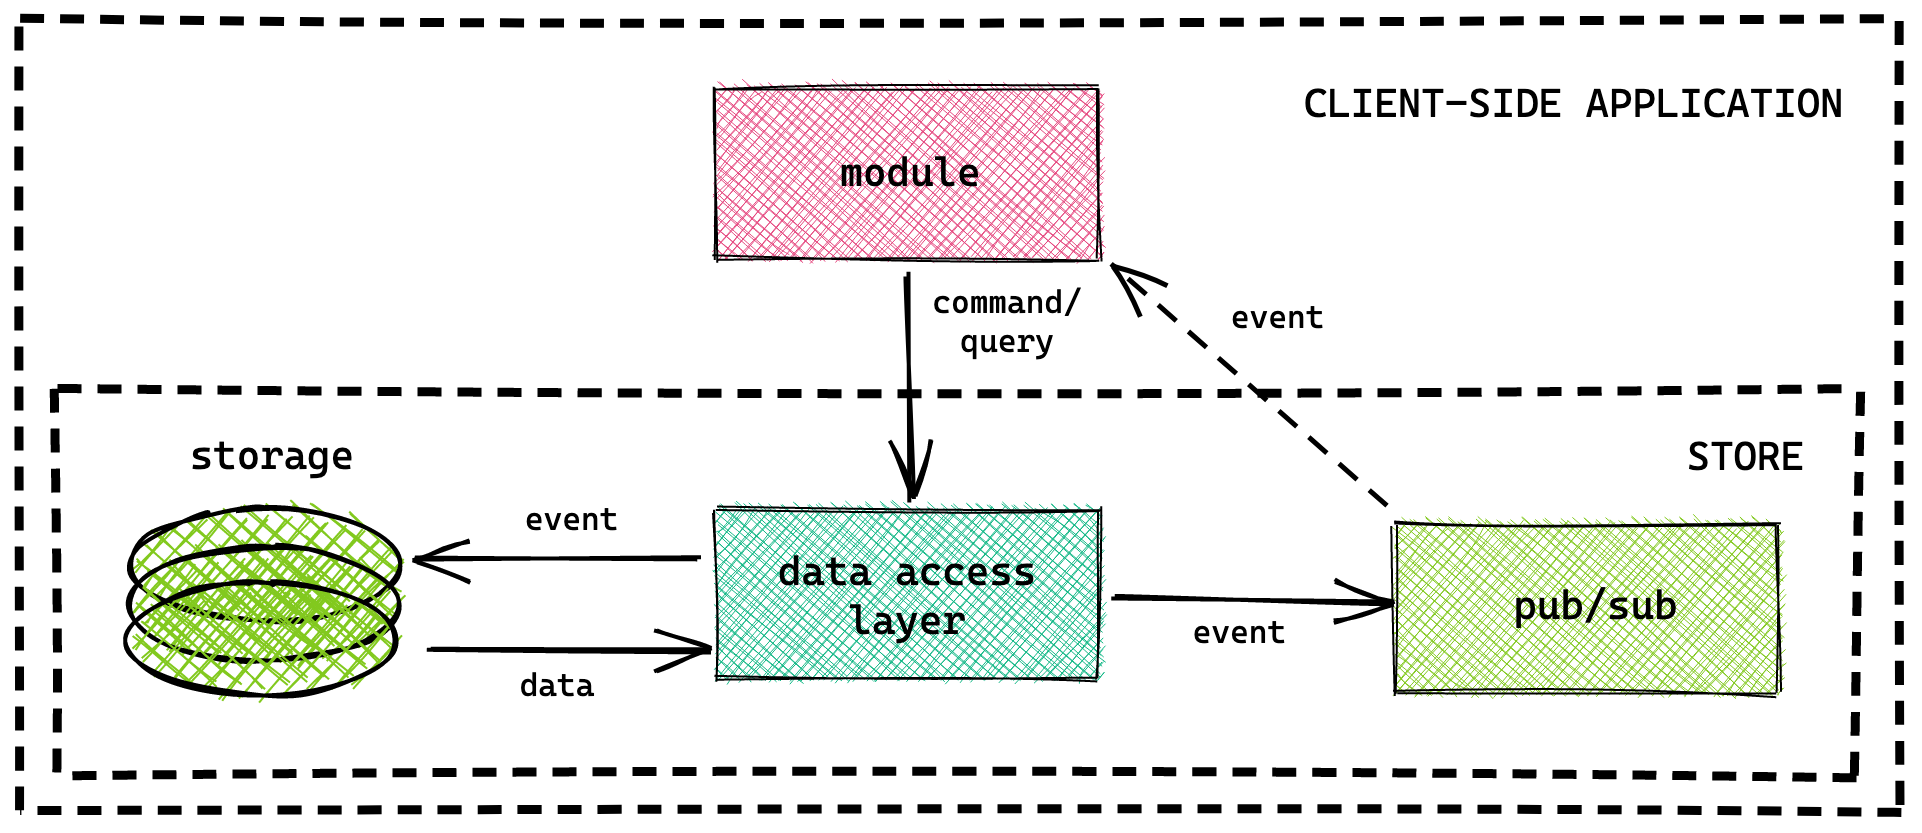
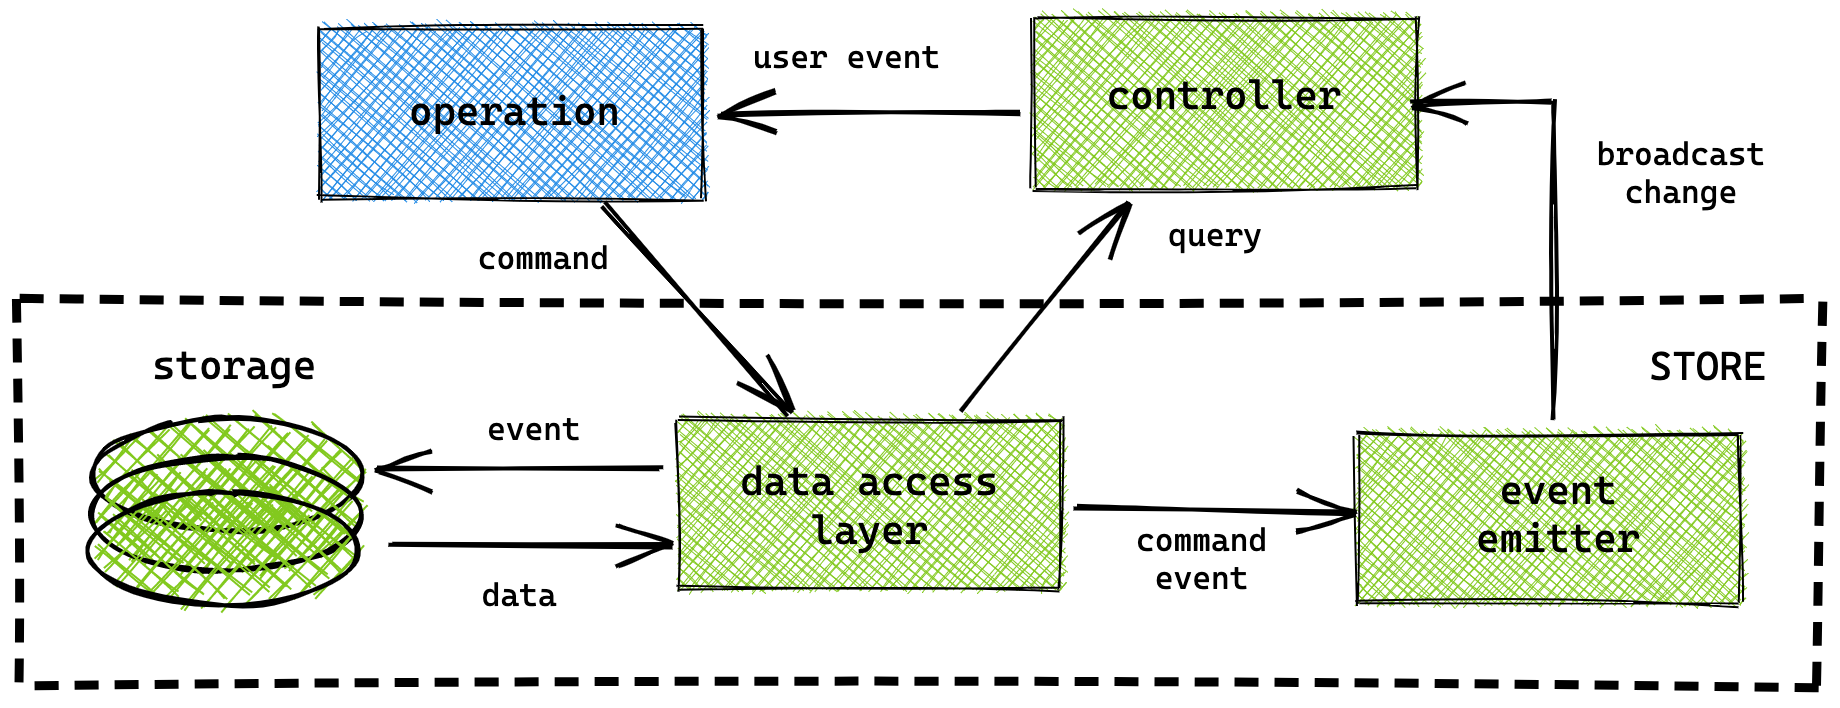
updated entire reference architecture

diff --git a/README.md b/README.md
@@ -1,94 +1,85 @@
-# Front-end reference architecture
+# Client-side software design
 
-**Version 3.0.0** | **Author**: Kevin Pennekamp | front-end architect | [vycke.dev](https://vycke.dev) | <hello@vycke.dev>
+**2021 version** | **Author**: Kevin Pennekamp | front-end architect | [kevtiq.dev](https://kevtiq.dev) | <hello@kevtiq.dev>
 
-> "A good architecture enables agility" - Simon Brown, author of the C4 model
+This document describes the concepts and guidelines around client-side software design for digital enterprise applications. It shows how what is important to focus on, and how to apply structure. The goals of this document can be deduced to three goals. 
 
-This document describes a reactive reference architecture for digital enterprise client-side applications. It offers framework-agnostic best practices focused on the architecture behind the user interface.
+- **Enable agility**. A good architecture helps you to embrace change from different angles (technology, business, requirements, etc.). This helps you further minimize the cost of change. 
+- **Minimize cost of change**. Create testable and maintainable code, and look ahead of what might come. A good architecture and a set of guidelines allows for easier technology decisions and change it along the way. 
+- **Shared understanding**. Modern client-side libraries do not offer guidelines on structure and organizing code. This requires a shared language of architectural patterns.
 
-> **DEFINITION**: a reference architecture is an abstract blueprint of a structure for a specific class of information systems. It describes a set of guidelines on how to use the structural description in designing a concrete architecture.
+## Context & concepts
 
-## System context
-
-Client-side applications for digital enterprises are a single part of a bigger system. The systems we create comprise many internal and external/public services. Client-side applications connect to internal services through an API gateway. Sometimes, the client-side application also connects to an external service (e.g. a public data set). The [C4 model](https://c4model.com) container diagram (or level 2) is displayed below.
+Client-side applications are almost always part of a bigger system. The systems we create comprise many internal and external/public services. Client-side applications connect to internal services through the published APIs of the system. The [C4 model](https://c4model.com) container diagram (or level 2) is displayed below.
 
 ![](./images/c4-container.png)
 
-Modern solutions are library-based. They do not offer guidelines in how to structure and organize code to achieve _maintainability_, _flexibility_, and _testability_. This requires a shared language of architectural patterns. This document describes common patterns from software development applied to the client-side.
+Due to this place in a system, the concepts of a client-side application differ from the other containers in the system. The client-side application focuses on: 
 
-## Core principles
+- Communicating with external APIs.
+- Invoking and handling user events.
+- Interact with the OS (e.g. browser, iOS).
+- State management inside the application. 
+- Styling and accessibility.
 
-There are four principles influencing the decisions of this reference architecture.
+## Design principles
+
+A reference architecture is an abstract blueprint for a specific class of information systems. It describes a set of guidelines on how to design an application architecture. It shows core components, the interrelationships among them, and their essential attributes. 
+
+This reference architecture is a guideline for designing client-side application. It offers framework-agnostic principles focused on the architecture behind the user interface. It applies to single-page, server-side rendered, and component-based mobile applications (e.g. React Native). 
 
 ### Separation of concerns
+The first and most important principle is *separation of concerns*. It is the activity of enforcing logical boundaries between each of the architectural concerns. It allows for *maintainable* and *testable* code. 
 
-Separation of concerns is the activity of enforcing logical boundaries between each of the architectural concerns. A common method is the [clean architecture](https://blog.cleancoder.com/uncle-bob/2012/08/13/the-clean-architecture.html), displayed on the left. The two centered layers are always solutions. specific, while the outer layers could be sharable between solutions.
+#### Clean architecture
+A common method is the [clean architecture](https://blog.cleancoder.com/uncle-bob/2012/08/13/the-clean-architecture.html). The UI is in the original outer layer of the clean architecture. But, modern client-side frameworks make client-side applications more like traditional applications. Thus several layers can apply to client-side applications, as displayed below. 
 
 ![](./images/layers.png)
 
-Although clean architecture does not fit client-side applications, it gives insights into different layers that exist in client-side applications. These layers are displayed on the right. Each feature on a client-side application is a vertical slice through these layers.
+The three depicted layers show us the first level of separation. The separation helps us to understand how users interact with our code. But it also shows how our code interacts with the browser and external APIs. 
 
-### Command query separation (CQS)
+- **Infrastructure**: all interface-related code (UI, browser APIs, and external APIs). The implementation is often abstracted into adapters (e.g. `Axios` or `React`).
+- **Application**: describes all (user) interactions (e.g. clicking a submit button). Often called features, use-cases, actions, or operations. 
+- **Domain**: holds all business domain-related logic required for the UI (e.g. validation). Most domain logic lives elsewhere in the system.
 
-On top of the separation of concerns through a layered architecture, the **[Command Query Separation (CQS)](https://en.wikipedia.org/wiki/Command%E2%80%93query_separation)** pattern is used. This pattern describes how to read and write operations, both internal and external, should be split. _Queries_ don't impact state, and return data, while _commands_ change the state, but do not return data.
+#### Model-View-Presenter (MVP)
+This first layer of separation aids in creating a shared understanding of a client-side application. But,  it is a too high level for implementation. When dissecting a complete feature as a vertical slice, we see touching all layers of the clean architecture. Structuring this results in a decomposed version of the [Model-View-Presenter](https://en.wikipedia.org/wiki/Model–view–presenter) pattern. Note that the displayed colors match those of our clean architecture visualization.
 
-By splitting commands and queries, a client-side application can be made _reactive_. One component can subscribe to an application store through a query. When another component updates the store through a command, the first component is updated.
+![](./images/mvp.png)
 
-![](./images/reactivity.png)
+Each feature is a vertical slice through this model. The view layer is responsible to show data and generating user events. Domain logic determines what to show, or what user event to invoke. The presenter/controller links the view layer with the model layer. It can use information from the URL in its role, like `userId` (*route state*).
 
-Using CQS, cache invalidation according the `stale-while-revalidate` pattern becomes easier. When executing a query (done by operations) the cache is first checked. If the record exists and is flagged as 'valid', no request is sent out. The moment a command is executed on a record, it is set to 'invalid'. On the next query, the value from the cache is returned first, but a request is sent out. The cache gets updated with the response value, which broadcasts the changes to the UI. This allows for _reactivity_, _observability_, and the [_optimistic UI_](https://www.smashingmagazine.com/2016/11/true-lies-of-optimistic-user-interfaces/) pattern.
+> A page is a good example of a presenter/controller, as many components use the same data and operations. But, in complex settings components can have a controller integrated.
 
-### Domain-driven development
+User events go through a chain of operations in the model layer. Operations translate the user event into fetch requests or state mutations. Operations represent the *application* layer from the clean architecture. The chain of operations can include general-purpose operations (e.g. logging and authorization).
 
-Features are vertical slices in the layers defined in the "separation of concerns" section. Features are decoupled from other features. But, in large-scale client-side applications, features are often coupled based on domain. By applying [domain-driven development (DDD)](https://martinfowler.com/bliki/BoundedContext.html) we can group similar features in _modules_ like displayed in the below C4 component diagram (level 3). To ensure that users are presented with the correct modules, a _router_ is used.
+The gateway and store are adapters from the *infrastructure* layer. The gateway handles fetch requests and provides on the request status (*meta state*). The store handles persist data (either persists for a session, or between sessions). It holds a cached version of server data (*remote state*) and state required in the application (*global state*). Both are responsible to update the presenter on state change. 
+
+> **TESTABILITY**: the described separation allows for more testable code, but also understanding better what to test. The inner layers of the clean architecture are more stable and less likely to change in the long-term. These are the parts you should test. The outer layer is subjected to change and testing is less important there. However, abstracting the infrastructure in adapters allows for another testable layer. This effectively means that everything in the 'model layer' of the MVP model should be tested. 
+
+### Command-query separation (CQS)
+The operations can be further separated using [command-query separation (CQS)](https://en.wikipedia.org/wiki/Command%E2%80%93query_separation). This pattern describes how to split read and write operations. _Queries_ only return data and don't impact state. _Commands_ change the state, but do not return data.
+
+By splitting commands and queries, a client-side application becomes _reactive_. One component can subscribe to an application store through a query. Another component updates the store through a command, invoking change in the first component.
+
+![](./images/stale-while-revalidate.png)
+
+This pattern allows for the `stale-while-revalidate` caching strategy. When executing a query, the store serves a cached version first. If the cached version is 'invalid', the operation sends a new request. Upon receiving the response, the store updates and broadcasts the changes. Commands touching records in the store, invalidate those records (e.g. [optimistic UI](https://www.smashingmagazine.com/2016/11/true-lies-of-optimistic-user-interfaces/)). 
+
+### Co-location
+Even when applying the first two principles, large client-side applications can become unmaintainable. [Co-location](https://kentcdodds.com/blog/colocation) describes that code and data should live close to where it is used. This allows for better developer experience, but above all, better maintainability of applications. The co-location principle is like the idea of [screaming architecture](https://blog.cleancoder.com/uncle-bob/2011/09/30/Screaming-Architecture.html). This describes that the general structure of your architecture should show the purpose of the application.
 
 ![](./images/c4-components.png)
 
-> **NOTE**: modules represent the top three layers defined in the separation of concerns. The _gateway_ and _store_ represent the other two layers and are discussed in a different section. Other elements can exist on this level (e.g. pub/sub, history stack, web-workers).
+By grouping features into descriptive modules, you can achieve a screaming architecture. The gateway and the store of the visualized architecture are generic. Thus a  module contains UI components, UI logic, controllers, and operations. 
 
-By dividing features into modules, the client-side application becomes more maintainable, scalable, and shareable. Modules can be extracted from one solution and used in another (e.g. as a micro front-end or NPM package). Modules can depend on each other. There are two types of dependencies:
+## Infrastructure layer patterns
+The infrastructure layer in the clean architecture is the layer most subjected to change. In client-side applications it is dependent on the choice of technology. Various frameworks exist for the UI (e.g. React and Vue) and many more will come into play in coming years. On the other end, new API technologies like GraphQL are gaining in popularity. Because of this nature, adapters are used to stabilize the implementation.   
 
-- _Hard dependency (solid arrow)_: when module A depends on module B, module A can invoke commands impacting module B.
-- _Soft dependency (dotted arrow)_: when module A depends on module B, module A can use queries or UI components from module B.
+This document describes either how to implement a mature adapter, or conceptually look at elements from the infrastructure layer. 
 
-### Co-location
-
-[Co-location](https://kentcdodds.com/blog/colocation) describes that code and data should live close to where it is used. This allows for better developer experience, but above all, better maintainability of applications.
-
-## Module architecture
-
-To follow the core principles, the main idea of the module architecture follows the [Model-View-Presenter](https://en.wikipedia.org/wiki/Model%E2%80%93view%E2%80%93presenter) pattern. The general architecture is displayed below.
-
-![](./images/c4-elements.png)
-
-The _controller_ can take many forms. It can be a UI component (e.g. page) that combines state interaction and external calls with UI rendering. Or, it can be a controller with no UI that is used by many UI components to perform commands and queries. The last possibility is that the controller is integrated into a UI component.
-
-> **NOTE**: React Context can a controller-type presenter.
-
-Big modules consist of many pages. In that case, the module includes a module-level **router**, implemented on the highest level. This can be the controller or a wrapper. In the latter's case, it is common that each page has, or is, its controller.
-
-In the _operations_ (a.k.a. actions) is where decision are made. They link the controller, and so the UI, to our data stores and APIs. They go beyond commands and queries, as they implement more logic as well (e.g. validation logic).
-
-The _module store_ allows for atomic data storage, complying with the co-location principle. This allows modules to decouple from application elements and become more shareable.
-
-## Application and module store
-
-Large applications use the store for global state management, the application store. But, according to the [co-location] principle data should live close to where it is used. This means that modules can have a store of their own. The recommendation is that the store follows the patterns around [event sourcing](https://martinfowler.com/eaaDev/EventSourcing.html). This means that the store should be:
-
-- It stores data in a **centralized** and normalizes the data, i.e. nesting of relational data is not allowed.
-- It is the owner of the data shape and mutations to increase resilience, i.e. it is **event-driven** and **immutable**.
-
-![](./images/c4-store.png)
-
-To follow the principles of this architecture, it uses an **access layer**. This _element_ is an [_facade_](https://en.wikipedia.org/wiki/Facade_pattern) and decouples the state interface, allowing for better composability. Store events (e.g. via a `dispatch` function) can be defined and invoked on a module-level. The access layer handles these events and applies them to the **storage**. The access layer can be connected to many data storage.
-
-> **NOTE**: many front-end applications use global state management for all data. Many existing global state management packages like [Redux](https://redux.js.org/style-guide/style-guide) have a coupled state interface. Although events are defined elsewhere, they have to be configured in the store. Another option is using an atomic state library.
-
-An element triggers an event, the data is changed. The access layer sends an `update` or `changed` event via an integrated event emitter or [pub/sub](https://en.wikipedia.org/wiki/Publish%E2%80%93subscribe_pattern). Other elements can subscribe to these events and activities to data changes. The access layer can subscribe to the event emitter. This enables another way for the store to update (e.g. when requests come from a different browser tab).
-
-## Gateway
-
-The API gateway enables a consistent way to connect various external sources or APIs (e.g. REST and GraphQL). Each external source has its own corresponding **client** element. This element sends out the request. Each client has a chain of **middleware**. A middleware is a [_decorator_](https://www.oreilly.com/library/view/learning-javascript-design/9781449334840/ch09s14.html) that enhances each request (e.g. add authentication information).
+### Gateway
+The API gateway enables a consistent way to connect various external sources or APIs (e.g. REST and GraphQL). It includes a *client* (e.g. `Axios` client) that sends out the requests. Each request goes through a chain of **middleware**. A middleware is a [_decorator_](https://www.oreilly.com/library/view/learning-javascript-design/9781449334840/ch09s14.html) that enhances each request (e.g. add authentication information).
 
 ![](./images/c4-gateway.png)
 
@@ -101,7 +92,18 @@ Each request, regardless of the related external source, first goes through a _c
 - Send requests to the correct middleware and client.
 - Handle the `stale-while-revalidate` pattern in cache invalidation combined with the application store or a _proxy_ cache.
 
-## User interface component anatomy
+### Application store
+Large applications use the store for global state management, the application store. But, according to the [co-location] principle data should live close to where it is used. This means that modules can have a store of their own. The recommendation is that the store follows the patterns around [event sourcing](https://martinfowler.com/eaaDev/EventSourcing.html). This means that the store should be *centralized*, *event-driven* and *immutable*. 
+
+![](./images/c4-store.png)
+
+To follow the principles of this architecture, it uses an **access layer**. This _element_ is an [_facade_](https://en.wikipedia.org/wiki/Facade_pattern) and decouples the state interface, allowing for better composability. The access layer handles events and applies them to the *storage*. The access layer can be connected to different data storages.
+
+> **NOTE**: many front-end applications use global state management for all data. Many existing global state management packages like [Redux](https://redux.js.org/style-guide/style-guide) have a coupled state interface. Although events are defined elsewhere, they have to be configured in the store. Another option is using an atomic state library.
+
+An element triggers an event and the data is changed. The access layer sends an event to an integrated event emitter or [pub/sub](https://en.wikipedia.org/wiki/Publish%E2%80%93subscribe_pattern). The emitter broadcasts the change to all UI components subscribed to these events. 
+
+### User interface component anatomy
 
 User interface (UI) components are the most important parts of the application. It requires the most development time. It is where the user sees and interacts with the application. There are three different component types.
 
@@ -116,3 +118,13 @@ The API is how the parent UI component interacts with this component. The parent
 A user interacts with the UI. This interaction invokes an action. A component can use an action from the module or define the action itself. The action can update the component state or invoke a callback received through the API. The observer of a component listens to the values from the API and the state for changes. When a change happens, it invokes a re-render of the UI and invokes an action.
 
 > **NOTE**: modern UI frameworks like React and Vue handle the described observer. React handles re-renders of the UI, while the life-cycles methods (e.g. `useEffect`) handle invoking actions.
+
+### State management
+In modern client-side applications, state management is one key concepts. In general, there are five different types of state present in an application.  
+
+- **Local**: state that is used by a single UI component.
+- **Shared**: state that is used by multiple UI components. It can live in a parent component, or on a global level.  
+- **Meta**: also known was 'state about state'. A common example is a `loading` state around fetch requests.
+- **Route**: state stored in the current URL of the application (e.g. object IDs or pagination information). 
+- **Remote**: a copy of data coming from a server. 
+
